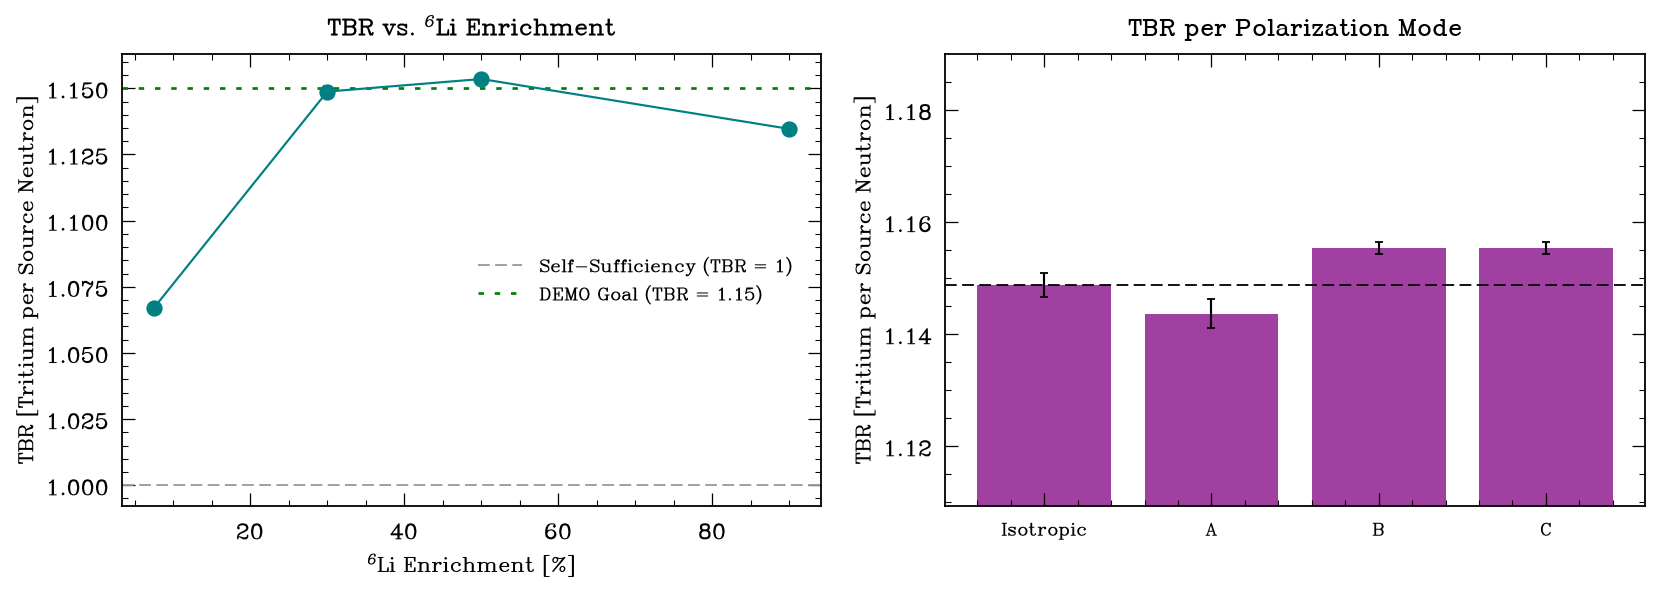
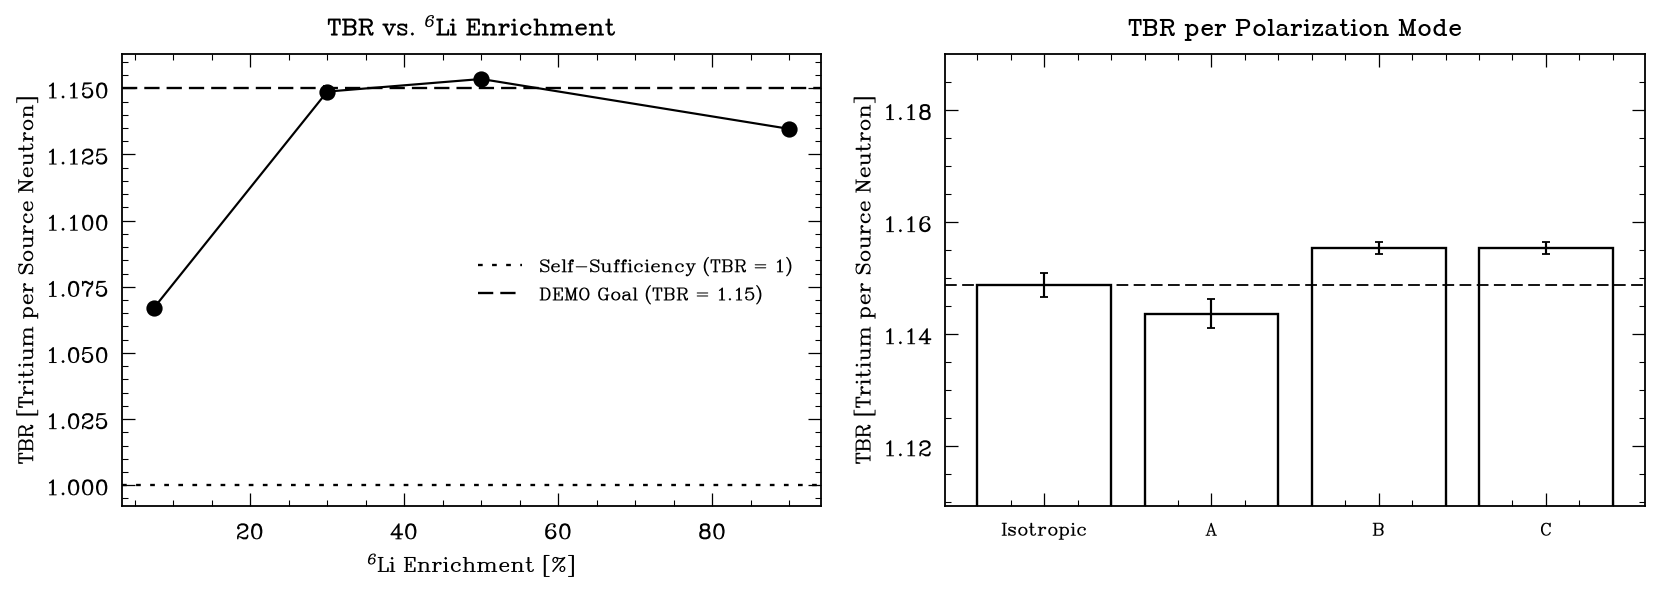
spf_prototype: black-and-white figure restyle + shorter plain captions
Apply consistent B/W scientific styling across the email figures (Fig. 1 as
the template) and tighten the Peterson summary document.

Figures:
- Fig. 1 (tier3 analytic): drop "Residual"/parentheses from the histogram
  legend label (now just mu, sigma) so it no longer collides with the data.
- Fig. 2 (torus): switch the NWL colormap to coolwarm (blue low -> red high).
- Fig. 3 (tier5): left bars black-outline/white-fill; right spectrum line
  black; 14.1 MeV marker black dashed.
- Fig. 4 (tier6): all-black; self-sufficiency line dotted, DEMO line dashed
  (swapped); TBR-per-mode bars black-outline/white-fill with black error bars.
- Fig. 5 (tier7): black-and-white, three series distinguished by hatch
  (///, ..., xxx) instead of colour.

peterson_figures.tex: remove the Scope/honesty paragraph from the title page;
rewrite all five captions as short, plain "Figure N:" notes (no bold/italic
styling) while keeping the key context and findings. Compiles to 4 pages.

diff --git a/spf_prototype/peterson_figures.tex b/spf_prototype/peterson_figures.tex
@@ -38,35 +38,20 @@ the Monte-Carlo spin-polarized-fuel neutronics of Bae et al.\ (\emph{Nucl.\ Fusi
 (1--2) use a filamentary/parabolic-ring source in a purely toroidal field with scattering
 disabled; quantities are per source neutron unless noted.
 
-\vspace{0.6em}
-\noindent\footnotesize
-\textbf{Scope / honesty.} The verification (Figs.~1--2) is free-streaming (no scattering),
-single-energy (14.1\,MeV), with a filamentary/parabolic-ring source and a purely toroidal
-field in a square (not D-shaped) cross-section. Figures~3--5 add scattering and a
-single-zone FLiBe blanket (no depletion, coolant, or tritium-extraction detail; 294\,K
-cross sections with 900\,K FLiBe density). No new physics is claimed: the rate/anisotropy
-is Kulsrud (1982), the analytic NWL is Schwartz (2025), and Monte-Carlo SPF neutronics was
-first reported by Bae et al.\ (2025). The contribution is an independently verified,
-reusable OpenMC source---anchored by an analytic$\leftrightarrow$MC recovery
-check---and an independent cross-validation of the published TBR-vs-polarization trend.
-
 \clearpage
 
 \begin{figure}[H]
   \centering
   \includegraphics[width=0.95\textwidth]{tier3_analytic_vs_numerical.png}
-  \caption{\textbf{OpenMC transport reproduces the analytic free-streaming NWL
-  directionality.} Per-bin ratio of the neutron wall load for each pure polarization mode
-  to the isotropic case, along the inboard, outboard, and floor walls of a
-  square-cross-section torus (parabolic multi-ring plasma, toroidal field, scattering off).
-  Markers are OpenMC Monte-Carlo transport; solid lines are the independent Schwartz
-  analytic solution. The A mode ($\propto\sin^2\theta$) raises the inboard load by
-  ${\sim}41\%$ and lowers the outboard by ${\sim}21\%$; the B/C mode
-  ($\propto 1+3\cos^2\theta$) is the mirror image. Bottom-right: the standardized residual
-  $(\mathrm{OpenMC}-\mathrm{analytic})/\sigma$ pooled over all walls and modes is
-  consistent with a unit normal ($\mu=+0.02$, $\sigma=0.69$): the code reproduces the
-  analytic directionality to within statistics with no detectable bias (the sub-unity
-  $\sigma$ reflects mildly conservative per-bin tally errors).}
+  \caption{OpenMC Monte-Carlo transport (markers) reproduces the independent Schwartz
+  analytic free-streaming wall load (lines). Each panel is the per-bin ratio of neutron
+  wall load for a pure polarization mode to the isotropic case, along one wall of a
+  square-cross-section torus (parabolic ring plasma, toroidal field, no scattering). The
+  A mode ($\sin^2\theta$) raises the inboard load ${\sim}41\%$ and lowers the outboard
+  ${\sim}21\%$; the B/C mode ($1+3\cos^2\theta$) is the mirror image. Bottom-right: the
+  standardized residual $(\mathrm{OpenMC}-\mathrm{analytic})/\sigma$ over all walls and
+  modes follows $N(0,1)$ ($\mu=+0.02$, $\sigma=0.69$), so the code matches the analytic
+  directionality with no detectable bias.}
 \end{figure}
 
 \clearpage
@@ -74,13 +59,11 @@ check---and an independent cross-validation of the published TBR-vs-polarization
 \begin{figure}[H]
   \centering
   \includegraphics[width=0.93\textwidth]{tier3_torus3d.png}
-  \caption{\textbf{Where the polarized source steers the wall load.} Computed
-  free-streaming NWL on the four walls of the square-cross-section torus for the
-  non-polarized (left) and polarized B/C (right) cases at constant total fusion rate
-  (shared colour scale). This is a render of the tallied wall load, not a CAD/DAGMC
+  \caption{Computed free-streaming wall load on the four walls of the square-cross-section
+  torus, non-polarized (left) versus polarized B/C (right) at constant fusion rate (shared
+  colour scale, blue low to red high). This is a render of the tallied load, not a CAD
   geometry. The B/C mode steers neutrons off the inboard center stack toward the outboard
-  wall---the qualitative benefit relevant to space-constrained (spherical-tokamak) center
-  stacks.}
+  wall---the benefit relevant to space-constrained spherical-tokamak center stacks.}
 \end{figure}
 
 \vspace{1em}
@@ -88,13 +71,12 @@ check---and an independent cross-validation of the published TBR-vs-polarization
 \begin{figure}[H]
   \centering
   \includegraphics[width=\textwidth]{tier5_heating_spectrum.png}
-  \caption{\textbf{Scattering and real materials} (cavity $\to$ W first wall $\to$ steel
-  $\to$ Be multiplier $\to$ FLiBe breeder). Left: neutron energy deposition per source
-  neutron by layer (log scale); the FLiBe blanket absorbs ${\sim}91\%$ of the deposited
-  energy while the 1\,mm tungsten first wall takes only ${\sim}0.1\%$. Right: the FLiBe
-  neutron flux spectrum, showing the 14.1\,MeV source line plus a large down-scattered
-  tail to keV energies---the direct signature that scattering is active, and what drives
-  low-energy $^{6}$Li breeding and material damage. Isotropic source.}
+  \caption{Scattering with real materials (cavity, W first wall, steel, Be multiplier,
+  FLiBe breeder). Left: energy deposition per source neutron by layer; the FLiBe blanket
+  takes ${\sim}91\%$ and the 1\,mm tungsten first wall only ${\sim}0.1\%$. Right: the FLiBe
+  flux spectrum shows the 14.1\,MeV source line plus a large down-scattered tail to keV
+  energies, the signature of active scattering that drives low-energy $^{6}$Li breeding and
+  material damage. Isotropic source.}
 \end{figure}
 
 \clearpage
@@ -102,14 +84,13 @@ check---and an independent cross-validation of the published TBR-vs-polarization
 \begin{figure}[H]
   \centering
   \includegraphics[width=\textwidth]{tier6_tbr.png}
-  \caption{\textbf{Tritium breeding in the FLiBe blanket} (TBR $=$ tritium atoms produced
-  per source neutron). Left: TBR versus $^{6}$Li enrichment (isotropic source) rises then
-  plateaus near 30--50\%, reproducing the published optimum; the 30\% baseline gives
-  TBR $=1.15$, in the ARC/LIBRA band at the DEMO goal. Right: TBR by polarization mode at
-  constant fusion rate is only modestly polarization-dependent ($\pm0.6\%$; B/C higher,
-  A lower)---the same sign as Bae et al.\ (2025) ($+2.7\%$ for parallel emission in a Pb-Li
-  spherical tokamak). Steering to protect the center stack therefore costs little breeding.
-  Error bars are Monte-Carlo $1\sigma$.}
+  \caption{Tritium breeding in the FLiBe blanket (TBR $=$ tritium per source neutron).
+  Left: TBR versus $^{6}$Li enrichment rises then plateaus near 30--50\%, reproducing the
+  published optimum; the 30\% baseline gives TBR $=1.15$ (ARC/LIBRA band, DEMO goal).
+  Right: TBR by polarization mode at constant fusion rate is only modestly
+  polarization-dependent ($\pm0.6\%$; B/C higher, A lower), the same sign as Bae et al.\
+  (2025) ($+2.7\%$ parallel, Pb-Li spherical tokamak). Steering to protect the center stack
+  costs little breeding. Error bars are Monte-Carlo $1\sigma$.}
 \end{figure}
 
 \vspace{1em}
@@ -117,15 +98,13 @@ check---and an independent cross-validation of the published TBR-vs-polarization
 \begin{figure}[H]
   \centering
   \includegraphics[width=0.78\textwidth]{tier7_absolute.png}
-  \caption{\textbf{The absolute (un-normalized) effect once the reaction-rate enhancement
-  is restored.} At fixed fuel density the neutron yield scales with the total-rate factor
-  $\eta = a + \tfrac23 b + \tfrac13 c$, so the fully aligned A mode produces $+50\%$ more
-  neutrons and the C mode $-50\%$. Bars show fusion rate, absolute tritium production, and
-  absolute center-stack (inboard) load, each relative to unpolarized fuel. A is a power
-  play ($+50\%$ power and tritium) but compounds the center-stack load to $1.7\times$; B
-  uniquely buys directional steering ($0.85\times$ center stack) at no rate or breeding
-  penalty; C halves everything. The TBR \emph{per neutron} is mode-independent, so tritium
-  self-sufficiency is preserved across modes.}
+  \caption{Absolute (un-normalized) effect with the reaction-rate enhancement restored. At
+  fixed fuel density the neutron yield scales with $\eta = a + \tfrac23 b + \tfrac13 c$, so
+  A produces $+50\%$ neutrons and C $-50\%$. Bars: fusion rate, absolute tritium production,
+  and absolute center-stack load, each relative to unpolarized fuel. A is a power play
+  ($+50\%$ power and tritium) but compounds the center-stack load to $1.7\times$; B buys
+  steering ($0.85\times$ center stack) at no rate or breeding penalty; C halves everything.
+  The TBR per neutron is mode-independent, so self-sufficiency is preserved.}
 \end{figure}
 
 \end{document}

diff --git a/spf_prototype/python/verify_reactor.py b/spf_prototype/python/verify_reactor.py
@@ -69,14 +69,14 @@ def spectrum_arrays(sp_path):
 def make_tier5_fig(heat, ecen, leth):
     fig, ax = plt.subplots(1, 2, figsize=(13, 4.8))
     ax[0].bar([NAME_DISP[n] for n in NAMES], heat,
-              color=["slategray", "darkgray", "khaki", "orange"])
+              facecolor="white", edgecolor="black", linewidth=1.3)
     ax[0].set_yscale("log")
     ax[0].set_ylabel("Heating [eV per Source Neutron]", fontsize=LS)
     ax[0].set_xlabel("Wall / Blanket Layer", fontsize=LS)
     ax[0].tick_params(axis="x", labelsize=12)
     ax[0].set_title("Neutron Energy Deposition by Layer", fontsize=TS)
-    ax[1].loglog(ecen, leth, color="navy")
-    ax[1].axvline(1.41e7, color="r", ls="dashed", lw=1, label="14.1 MeV Source")
+    ax[1].loglog(ecen, leth, color="black")
+    ax[1].axvline(1.41e7, color="black", ls="dashed", lw=1.2, label="14.1 MeV Source")
     ax[1].set_xlabel("Neutron Energy [eV]", fontsize=LS)
     ax[1].set_ylabel("Flux per Unit Lethargy [arb. units]", fontsize=LS)
     ax[1].set_title("FLiBe Flux Spectrum", fontsize=TS)
@@ -88,17 +88,19 @@ def make_tier6_fig(tbr_scan, tbr_by_mode, iso_tbr):
     fig, ax = plt.subplots(1, 2, figsize=(13, 4.8))
     es = sorted(tbr_scan)
     ax[0].errorbar(es, [tbr_scan[e][0] for e in es], yerr=[tbr_scan[e][1] for e in es],
-                   fmt="o-", color="teal")
-    ax[0].axhline(1.0, color="0.6", ls="dashed", lw=1, label="Self-Sufficiency (TBR = 1)")
-    ax[0].axhline(1.15, color="green", ls=":", lw=1.5, label="DEMO Goal (TBR = 1.15)")
+                   fmt="o-", color="black")
+    ax[0].axhline(1.0, color="black", ls=":", lw=1.3, label="Self-Sufficiency (TBR = 1)")
+    ax[0].axhline(1.15, color="black", ls="--", lw=1.3, label="DEMO Goal (TBR = 1.15)")
     ax[0].set_xlabel(r"$^{6}$Li Enrichment [%]", fontsize=LS)
     ax[0].set_ylabel("TBR [Tritium per Source Neutron]", fontsize=LS)
     ax[0].set_title(r"TBR vs. $^{6}$Li Enrichment", fontsize=TS)
     ax[0].legend(fontsize=LG)
     ms = list(tbr_by_mode)
     ax[1].bar([MODE_DISP[m] for m in ms], [tbr_by_mode[m][0] for m in ms],
-              yerr=[tbr_by_mode[m][1] for m in ms], color="purple", alpha=0.75)
-    ax[1].axhline(iso_tbr, color="k", ls="dashed", lw=1)
+              yerr=[tbr_by_mode[m][1] for m in ms],
+              facecolor="white", edgecolor="black", linewidth=1.3,
+              error_kw=dict(ecolor="black"))
+    ax[1].axhline(iso_tbr, color="black", ls="--", lw=1)
     ax[1].set_ylabel("TBR [Tritium per Source Neutron]", fontsize=LS)
     ax[1].tick_params(axis="x", labelsize=12)
     ax[1].set_ylim(min(tbr_by_mode[m][0] for m in ms) * 0.97,

diff --git a/spf_prototype/python/tier3_artifacts.py b/spf_prototype/python/tier3_artifacts.py
@@ -186,7 +186,7 @@ def fig_analytic_vs_numerical(W, I, S, D):
     resid = np.concatenate(resid)
     axes[1, 1].hist(resid, bins=35, density=True, histtype="bar",
                     facecolor="white", edgecolor="black", linewidth=0.9,
-                    label=fr"Residual ($\mu={resid.mean():+.2f},\ \sigma={resid.std():.2f}$)")
+                    label=fr"$\mu={resid.mean():+.2f},\ \sigma={resid.std():.2f}$")
     xx = np.linspace(-4, 4, 200)
     axes[1, 1].plot(xx, np.exp(-xx ** 2 / 2) / np.sqrt(2 * np.pi), "k-", lw=2, label=r"$N(0,1)$ fit")
     axes[1, 1].set_title("Standardized Residual (A / B / C)", fontsize=TS)
@@ -223,7 +223,7 @@ def _wall_surface(ax, kind, coord_centers, vals, cmap, norm, phi0, phi1, nphi=60
 
 
 def fig_torus3d(W, I):
-    cmap = cm.viridis
+    cmap = cm.coolwarm   # blue (low) -> red (high) NWL
     allvals = np.concatenate([I[m][w] for m in ("iso", "B") for w in WALLS])
     norm = Normalize(vmin=allvals.min(), vmax=allvals.max())
     phi0, phi1 = 0.0, 1.5 * np.pi  # 3/4 cutaway to see inside

diff --git a/spf_prototype/python/tier7_absolute.py b/spf_prototype/python/tier7_absolute.py
@@ -64,10 +64,12 @@ def main():
     metrics = [("rate", "Fusion Rate / Total Wall Load"), ("tritium", "Absolute Tritium Production"),
                ("inboard", "Center-Stack (Inboard) Load")]
     x = np.arange(len(ms)); wbar = 0.25
+    hatches = ["///", "...", "xxx"]   # distinguish series in black & white
     fig, ax = plt.subplots(figsize=(9.5, 5))
     for i, (k, lab) in enumerate(metrics):
-        ax.bar(x + (i - 1) * wbar, [table[m][k] for m in ms], wbar, label=lab)
-    ax.axhline(1.0, color="0.5", ls="dashed", lw=1)
+        ax.bar(x + (i - 1) * wbar, [table[m][k] for m in ms], wbar, label=lab,
+               facecolor="white", edgecolor="black", linewidth=1.1, hatch=hatches[i])
+    ax.axhline(1.0, color="black", ls="dashed", lw=1)
     ax.set_xticks(x); ax.set_xticklabels([mlabel[m] for m in ms], fontsize=13)
     ax.set_ylabel("Relative to Unpolarized Fuel (= 1)", fontsize=14)
     ax.set_title("Absolute Effect at Fixed Fuel Density (Rate Restored)", fontsize=16)
